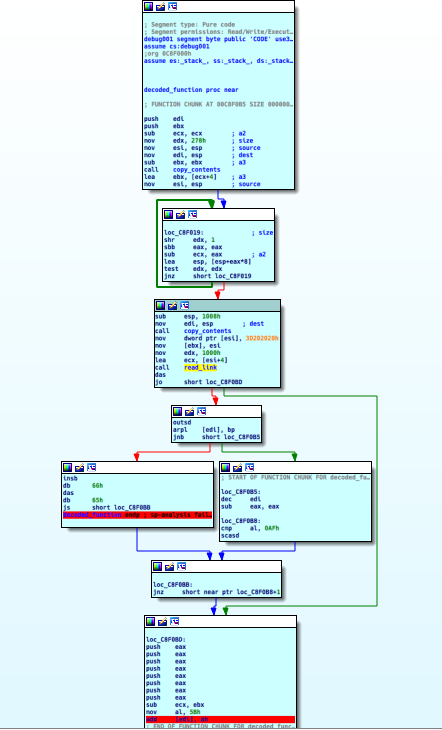
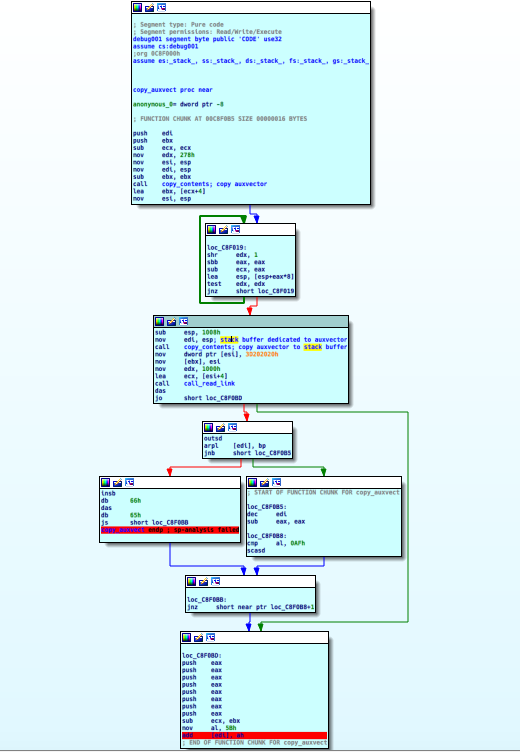
tsunami1 test

Changed region(s): [[0.1176, 0.0, 0.8529, 1.0], [0.8235, 0.8137, 0.8529, 0.8438], [0.8235, 0.5425, 0.8529, 0.5726]]

diff --git a/_posts/2017-11-17-UnPacking_a_Linux_Tsunami_Sample.md b/_posts/2017-11-17-UnPacking_a_Linux_Tsunami_Sample.md
@@ -177,7 +177,15 @@ When execution reaches the `0x00C8F000` chunk, we see the following routine:
 <div style="text-align:center"><img src ="https://github.com/n4x0r/n4x0r.github.io/raw/master/images/Tsunami/14.png" /></div>
 <br/>
 
-Inside this routine, we see that it uses serveral other decoded functions. Function 
+The main purpose of this routine is to retrieve the `ELF Auxiliar vector` from the stack, and copy it into a local stack buffer. The struture of the Auxiliar vector looks as follows:
+
+<br/>
+<div style="text-align:center"><img src ="https://github.com/n4x0r/n4x0r.github.io/raw/master/images/Tsunami/17.png" /></div>
+<br/>
+
+Once Auxiliar vector is retrived from stack then this function calls `call_read_link` function which looks as follows:
+
+ 
 
 
 
